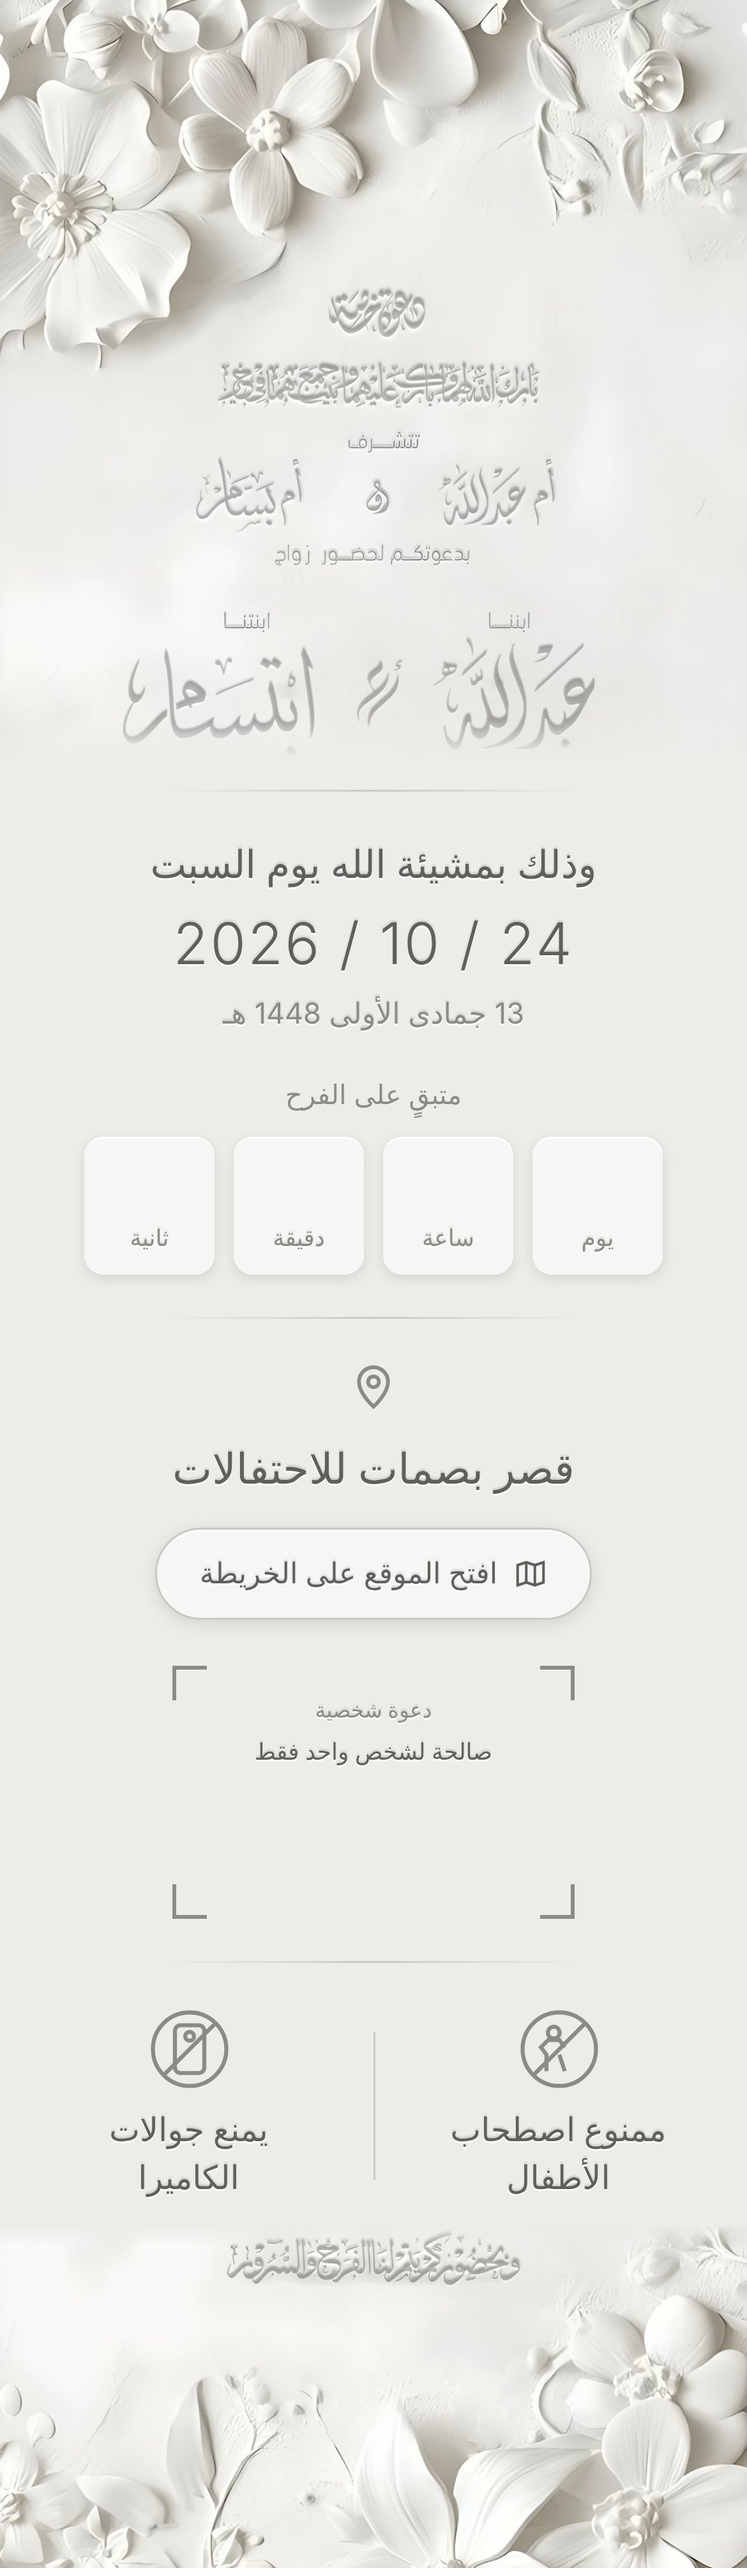
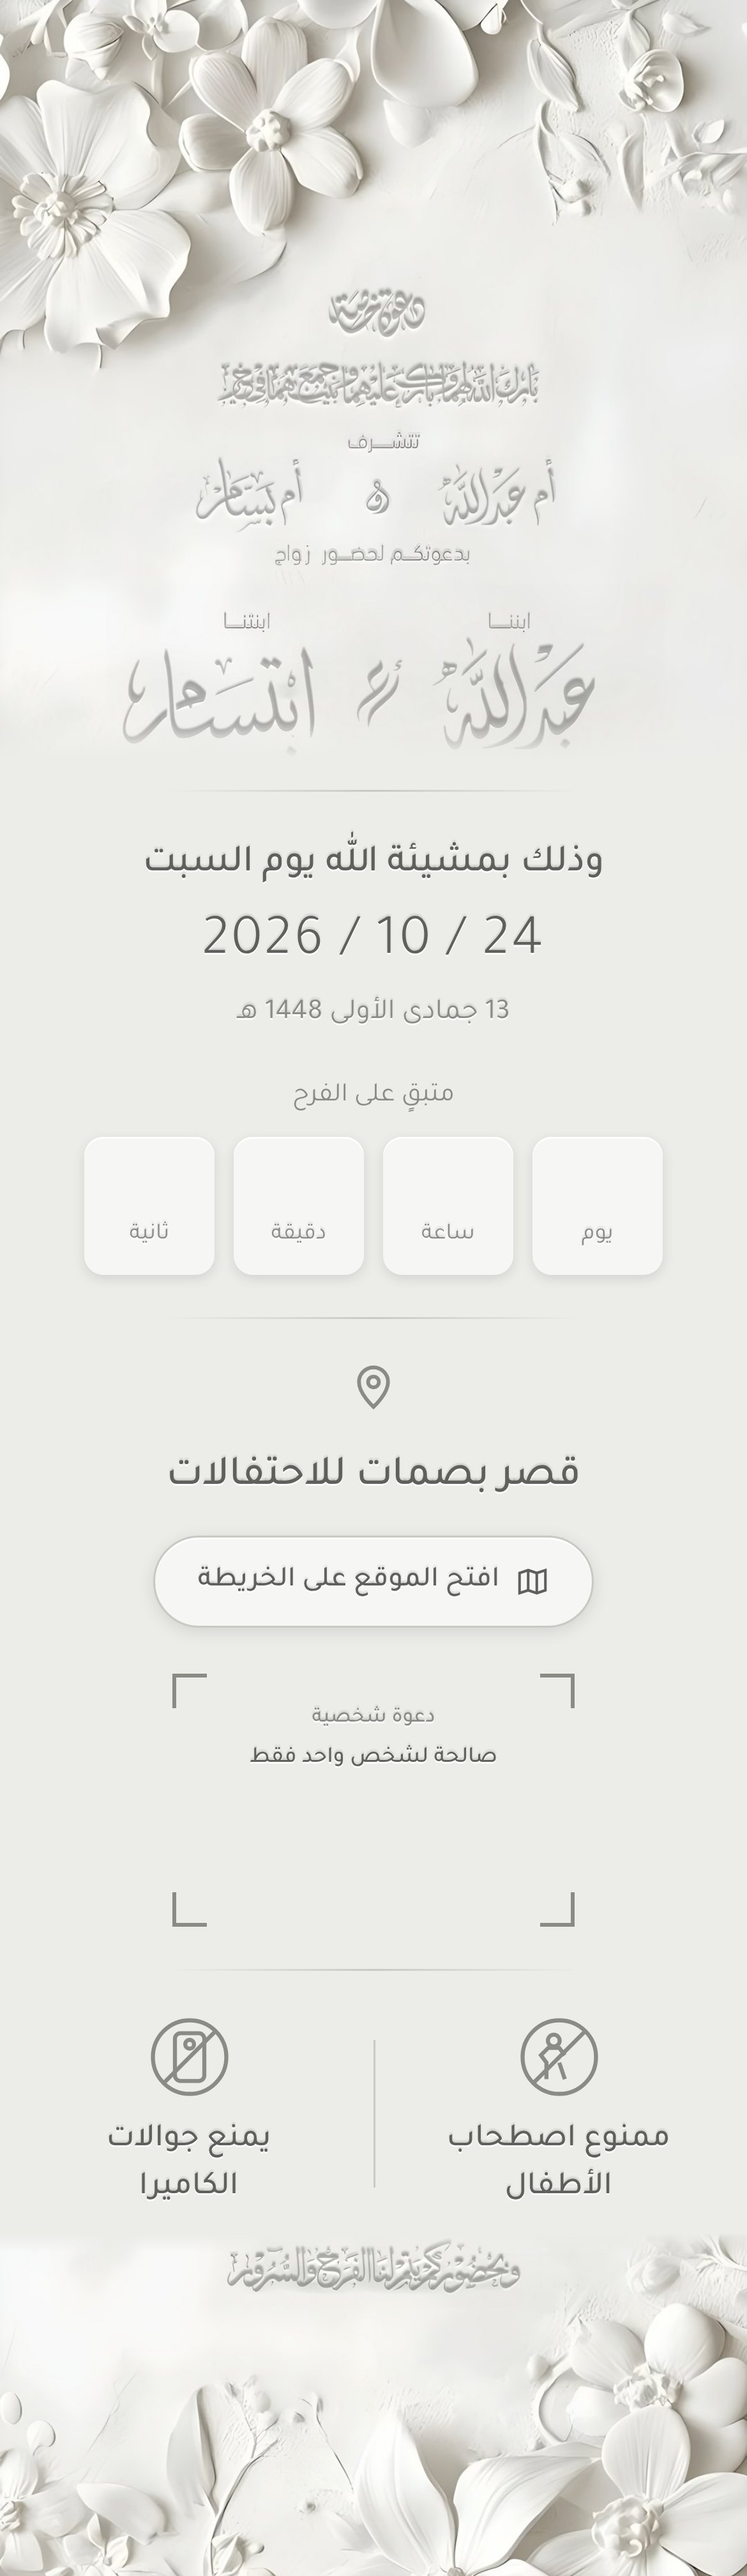
Render page with Tajawal and self-host the font
Claude-Session: https://claude.ai/code/session_01ASM5RPnjv6TUyHCXtRg4VE

diff --git a/index.html b/index.html
@@ -14,10 +14,12 @@
 <link rel="icon" type="image/png" sizes="192x192" href="icon-192.png">
 <link rel="apple-touch-icon" sizes="180x180" href="apple-touch-icon.png">
 <link rel="preload" as="image" href="page.jpg">
-<link rel="preconnect" href="https://fonts.googleapis.com">
-<link rel="preconnect" href="https://fonts.gstatic.com" crossorigin>
-<link href="https://fonts.googleapis.com/css2?family=Tajawal:wght@300;400;500&display=swap" rel="stylesheet">
+<link rel="preload" as="font" type="font/woff2" href="fonts/Tajawal-Medium.woff2" crossorigin>
+<link rel="preload" as="font" type="font/woff2" href="fonts/Tajawal-Light.woff2" crossorigin>
 <style>
+  @font-face{font-family:'Tajawal';font-weight:300;font-style:normal;font-display:block;src:url('fonts/Tajawal-Light.woff2') format('woff2')}
+  @font-face{font-family:'Tajawal';font-weight:400;font-style:normal;font-display:block;src:url('fonts/Tajawal-Regular.woff2') format('woff2')}
+  @font-face{font-family:'Tajawal';font-weight:500;font-style:normal;font-display:block;src:url('fonts/Tajawal-Medium.woff2') format('woff2')}
   :root{color-scheme:only light}
   *{margin:0;padding:0;box-sizing:border-box}
   html,body{background:#ecece9;color-scheme:only light;forced-color-adjust:none}
@@ -31,10 +33,10 @@
 </head>
 <body>
 <main class="wrap" id="wrap">
-  <img src="page.jpg" width="1170" height="4019" alt="دعوة زواج: تتشرف أم عبدالله وأم بسام بدعوتكم لحضور زواج ابننا عبدالله وابنتنا ابتسام، وذلك بمشيئة الله يوم السبت 24/10/2026 الموافق 13 جمادى الأولى 1448 هـ، في قصر بصمات للاحتفالات. دعوة شخصية صالحة لشخص واحد فقط. ممنوع اصطحاب الأطفال، ويمنع جوالات الكاميرا. وبحضوركم يتم لنا الفرح والسرور.">
-  <canvas class="ov" id="cdc" style="left:0.0000%;top:41.8609%;width:100.0000%;height:7.8067%"></canvas>
-  <canvas class="ov" id="numc" style="left:26.1538%;top:69.4917%;width:47.6923%;height:4.2504%"></canvas>
-  <a class="ov" style="left:20.8333%;top:59.5050%;width:58.3333%;height:3.5832%" href="https://maps.app.goo.gl/WJASRuugTascabQo8" target="_blank" rel="noopener" aria-label="افتح موقع قصر بصمات على الخريطة"></a>
+  <img src="page.jpg" width="1170" height="4031" alt="دعوة زواج: تتشرف أم عبدالله وأم بسام بدعوتكم لحضور زواج ابننا عبدالله وابنتنا ابتسام، وذلك بمشيئة الله يوم السبت 24/10/2026 الموافق 13 جمادى الأولى 1448 هـ، في قصر بصمات للاحتفالات. دعوة شخصية صالحة لشخص واحد فقط. ممنوع اصطحاب الأطفال، ويمنع جوالات الكاميرا. وبحضوركم يتم لنا الفرح والسرور.">
+  <canvas class="ov" id="cdc" style="left:0.0000%;top:41.7362%;width:100.0000%;height:7.7835%"></canvas>
+  <canvas class="ov" id="numc" style="left:26.1538%;top:69.5825%;width:47.6923%;height:4.2377%"></canvas>
+  <a class="ov" style="left:20.5769%;top:59.6255%;width:58.8421%;height:3.5725%" href="https://maps.app.goo.gl/WJASRuugTascabQo8" target="_blank" rel="noopener" aria-label="افتح موقع قصر بصمات على الخريطة"></a>
   <p class="sr" id="sr" aria-live="polite"></p>
 </main>
 <script>
